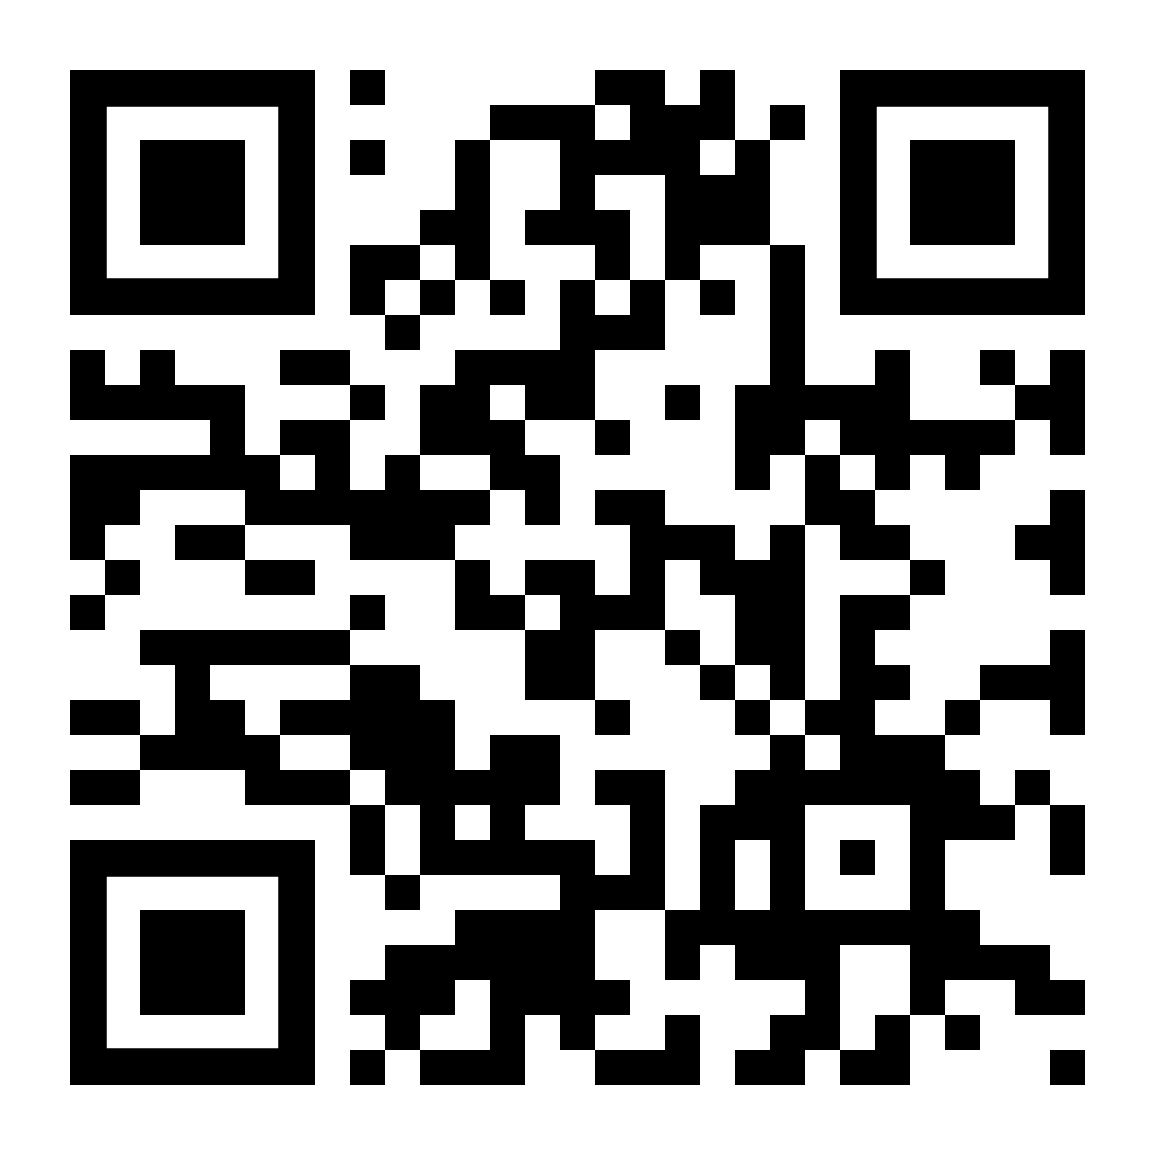
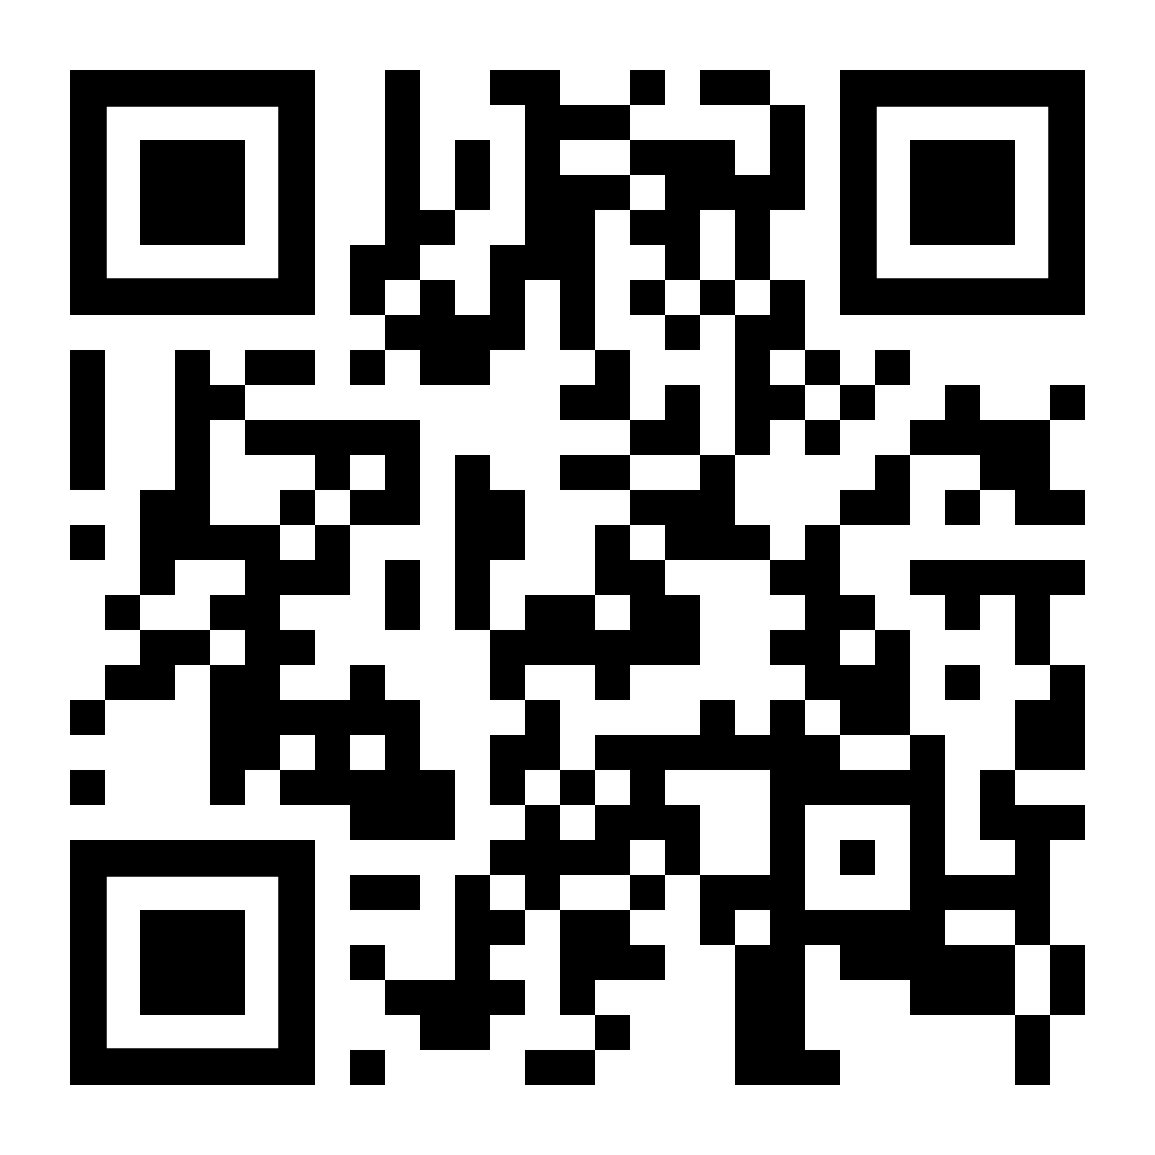
hydrodyn 3 and ethics 1 up

Changed region(s): [[0.0623, 0.0623, 0.9662, 0.9662]]

diff --git a/FS1005_16.html b/FS1005_16.html
@@ -6,7 +6,7 @@
 
 	<title>Food Technology, Culture & Ethics 1</title>
 
-	<meta name="description" content="Protein Fractionation">
+	<meta name="description" content="Techno-ethics 1">
 	<meta name="author" content="Shane Crowley">
 
 	<meta name="apple-mobile-web-app-capable" content="yes" />
@@ -35,7 +35,6 @@
 	<!-- <script src="https://cdn.babylonjs.com/viewer/babylon.viewer.js"></script> -->
 	<!-- <script src="plugin/embed-tweet/plugin.js"></script> -->
 
-
 </head>
 
 <body>
@@ -51,7 +50,6 @@
 				<p><small>Press <b>down</b> for controls and <b>right</b> to progress</small></p>	
 					</div>
 			
-	
 				</section>
 				<section>
 					<h3 style>Interacting with the Slides</h3>
@@ -72,12 +70,12 @@
             <section>
 				<p> To view the <b>video</b> just follow the links:
 					<br>
-					<a href="https://youtu.be/5FZmMobnzVs">👉<i>https://youtu.be/5FZmMobnzVs</i></a>
+					<a href="https://youtu.be/6k7OUbZg6ag">👉<i>https://youtu.be/6k7OUbZg6ag</i></a>
 				</p>
 
 				<img title="Scan me with your phone!" src="img/qr_fs1005_yt16.png" alt="if you don't see a QR code click the link" style="height: 340px; margin: 0 auto 4rem auto; background: transparent;" class="qr_code">
 					<br>
-				<a href="http://edibotopic.github.io/lecture-slides/FS1005_16.html?print-pdf" title="For your added convenience">Click here for printable version👈</a>
+				<!-- <a href="http://edibotopic.github.io/lecture-slides/FS1005_16.html?print-pdf" title="For your added convenience">Click here for printable version👈</a> -->
 			
 			</section>
 
@@ -126,6 +124,10 @@
 					<br>
 					<li class="fragment fade-in-then-semi-out">
 						"Inconsistently enough, he/she is not above accepting praise when successful"
+					</li>
+					<br>
+					<li class="fragment fade-in-then-semi-out">
+						See Bunge reading on Canvas for more
 					</li>
 				</ul>
 					</small>

diff --git a/FS2006_12.html b/FS2006_12.html
@@ -68,13 +68,13 @@
 			<section>
 				<p> Links to <b>video</b> below:
 					<br>
-					<a href="https://youtu.be/0XjticK77Wg">👉<i>https://youtu.be/0XjticK77Wg</i></a>
+					<a href="https://youtu.be/bZxqhiBeJOs">👉<i>https://youtu.be/bZxqhiBeJOs</i></a>
 				</p>
 
 				<img title="Scan me with your phone!" src="img/qr_fs2006_12yt.png" alt="if you don't see a QR code click the link" style="height: 340px; margin: 0 auto 4rem auto; background: transparent;" class="qr_code">
 					<br>
                     <br>
-                    <a href="https://edibotopic.github.io/lecture-slides/FS2006_12.html?print-pdf" title="For your added convenience">Click for print version (not recommended)👈</a>
+                    <!-- <a href="https://edibotopic.github.io/lecture-slides/FS2006_12.html?print-pdf" title="For your added convenience">Click for print version (not recommended)👈</a> -->
 			</section>
 
             <section data-background-image="img/conservation_energy.gif">
@@ -118,6 +118,7 @@
                 <p>$$\color{yellow}{\frac{P_1}{\rho \cdot g} + \frac{v_1^2}{2 \cdot g} + z_1} = \color{violet}{\frac{P_2}{\rho \cdot g} + \frac{v_2^2}{2 \cdot g} + z_2}$$</p>
 
                 <small>If we assume that <i style="color: aqua;">(1) $z_1 = z_2$</i> and <i style="color: aqua;">(2) $v_2 >> v_1$</i> then this is easy to simplify...</small>
+                <small><i>See notes on Canvas that show the simplification broken down into steps</i></small>
             </section>
 
             <section>

diff --git a/index.md b/index.md
@@ -42,7 +42,7 @@ Lecture#10: [Food Technology I: Science, Art, Design](http://edibotopic.github.i
 
 Lecture#11: [Food Technology II: Technological Development](http://edibotopic.github.io/lecture-slides/FS1005_15.html)
 
-<!-- Lecture#14: [Techno-ethics I: Introduction](http://edibotopic.github.io/lecture-slides/FS1005_16.html) -->
+Lecture#14: [Techno-ethics I: Introduction](http://edibotopic.github.io/lecture-slides/FS1005_16.html)
 
 <!-- Lecture#15: [Intermission: Pre-recording a Group Presentation](http://edibotopic.github.io/lecture-slides/FS1005_17.html) -->
 
@@ -79,7 +79,7 @@ Lecture#10: [Hydrodynamics II](http://edibotopic.github.io/lecture-slides/FS2006
 
 <!-- Lecture#11: [Intermission: Typing Math](http://edibotopic.github.io/lecture-slides/FS2006_11.html) -->
 
-<!-- Lecture#12: [Hydrodynamics III](http://edibotopic.github.io/lecture-slides/FS2006_12.html) -->
+Lecture#12: [Hydrodynamics III](http://edibotopic.github.io/lecture-slides/FS2006_12.html)
 
 <!-- Lecture#13: [Separations I](http://edibotopic.github.io/lecture-slides/fs2006_13.html) -->
 
